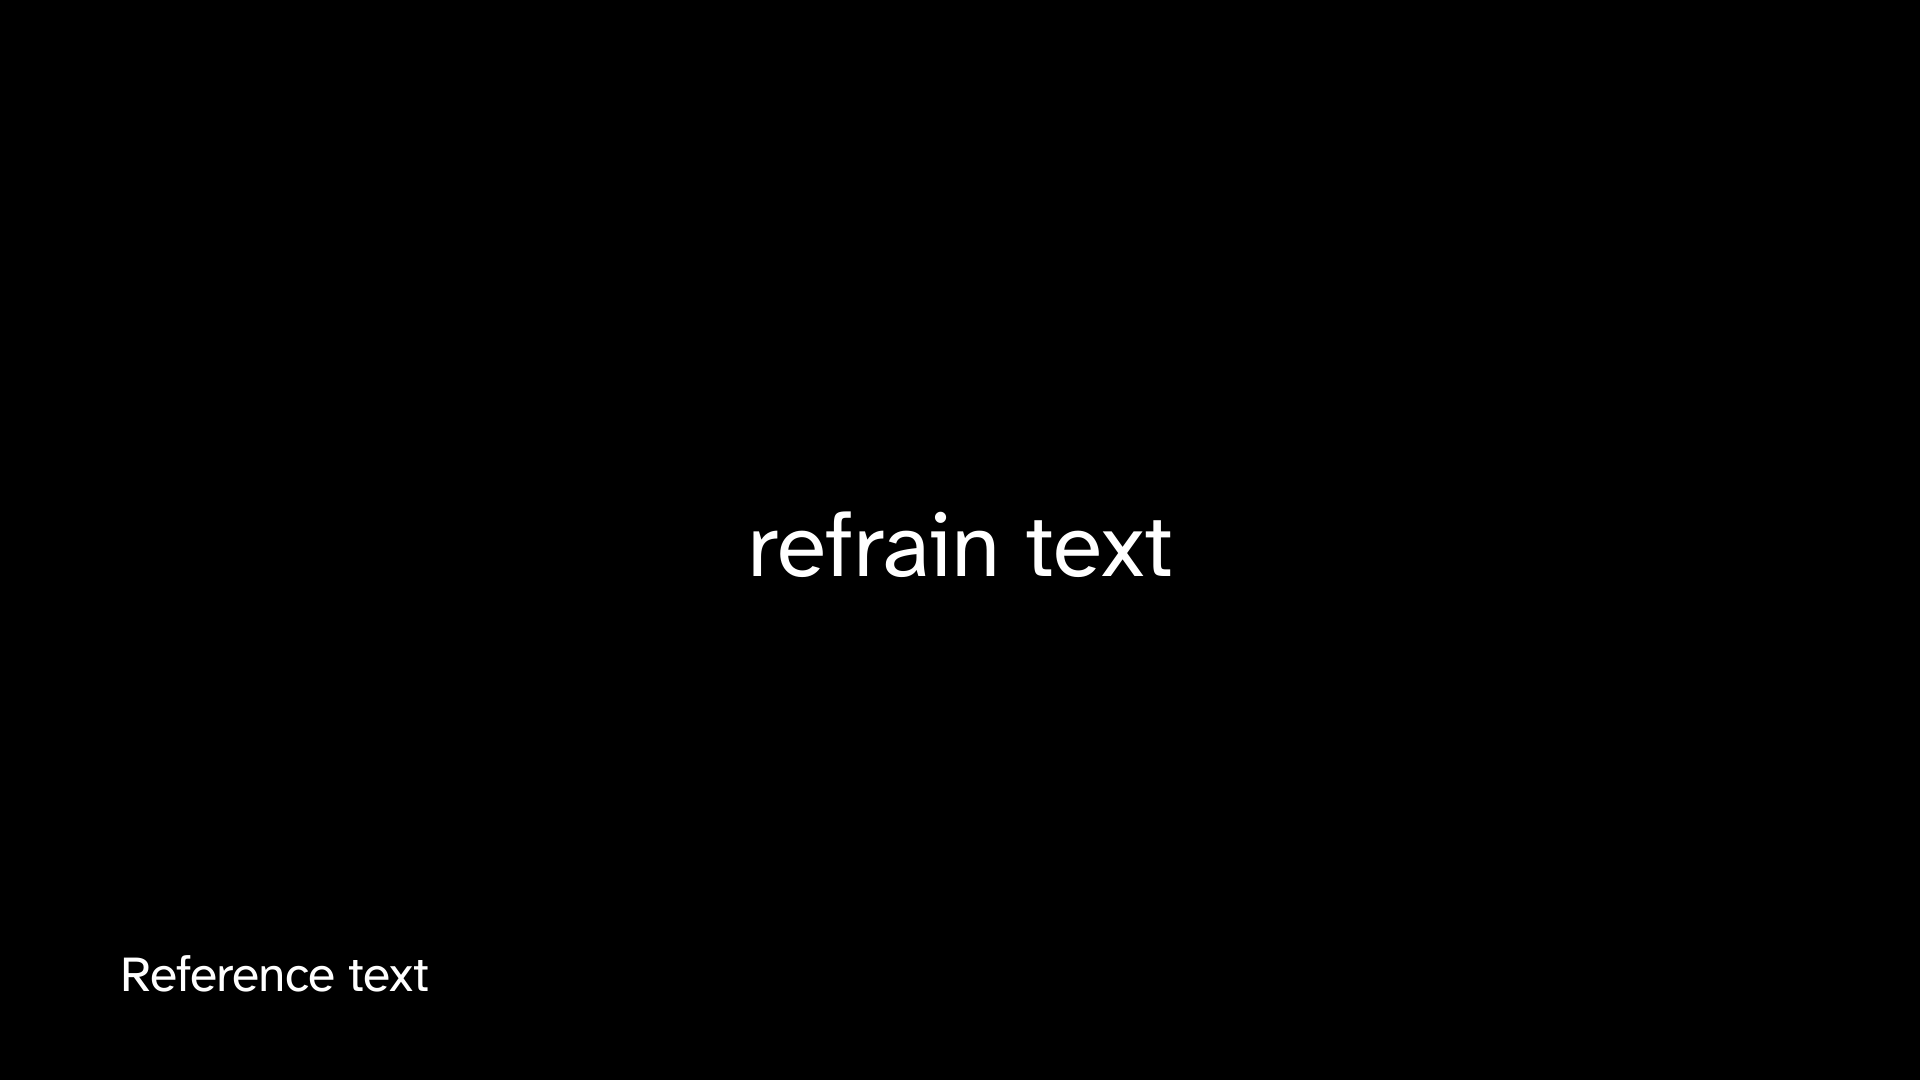
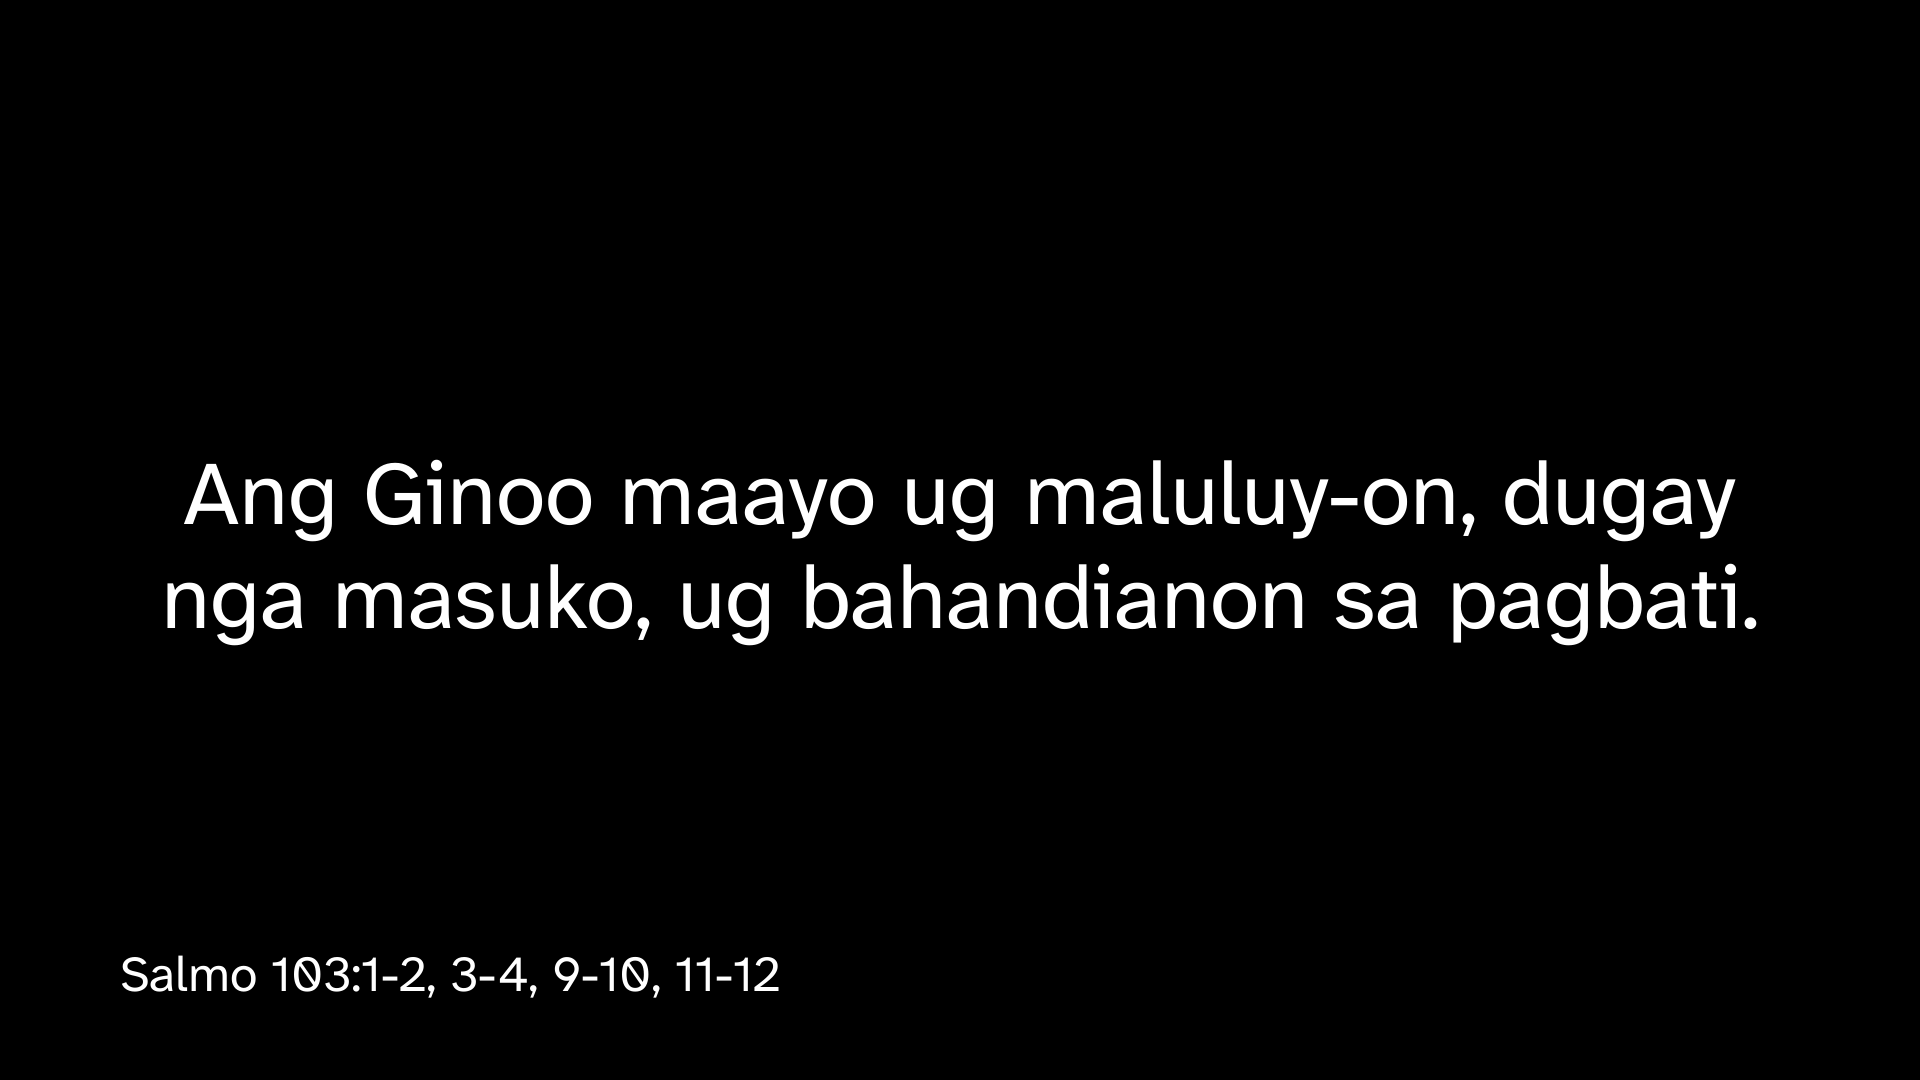
test(rendering): update Cebuano psalm specimens

Changed region(s): [[0.0625, 0.4278, 0.9062, 0.6111], [0.0625, 0.8861, 0.4062, 0.9167]]

diff --git a/docs/qualification/T0.4-GALLERY-CANDIDATE.md b/docs/qualification/T0.4-GALLERY-CANDIDATE.md
@@ -112,8 +112,8 @@ scale, `F5` the target density; diagnostics ride beside the scaled frame.
 | lyrics-overflow-warning | Lyrics | `Verse` | 20/20 | 0 | body content needs 2080px but the body zone offers 862px at the approved minimum; split before shrinking<br>lyric body carries 20 phrases against a two-phrase target; split before shrinking<br>lyric body has 20 rendered lines against a four-line ceiling; split before shrinking | `gallery-candidate/lyrics-overflow-warning.png` |
 | lyrics-punctuation | Lyrics | `Verse` | 1/2 | 0 | none | `gallery-candidate/lyrics-punctuation.png` |
 | lyrics-tagalog-three-line | Lyrics | `Taludtod` | 3/3 | 0 | lyric body carries 3 phrases against a two-phrase target; split before shrinking | `gallery-candidate/lyrics-tagalog-three-line.png` |
-| psalm-header-empty | Psalm | empty | 1/1 | 1 | none | `gallery-candidate/psalm-header-empty.png` |
-| psalm-tagalog | Psalm | `SALMO RESPONSORYO: Awit 95` | 1/2 | 1 | none | `gallery-candidate/psalm-tagalog.png` |
+| psalm-cebuano | Psalm | `SALMO RESPONSORYO:` | 1/2 | 1 | none | `gallery-candidate/psalm-cebuano.png` |
+| psalm-header-empty | Psalm | empty | 1/2 | 1 | none | `gallery-candidate/psalm-header-empty.png` |
 | reading-identification-mateo | ReadingIdentification | absent | 1/3 | 1 | none | `gallery-candidate/reading-identification-mateo.png` |
 | reading-identification-roma | ReadingIdentification | absent | 1/3 | 1 | none | `gallery-candidate/reading-identification-roma.png` |
 | reading-identification | ReadingIdentification | absent | 1/2 | 1 | none | `gallery-candidate/reading-identification.png` |
@@ -136,8 +136,11 @@ Measured at the candidate levels, from the real renderer (see table):
 - `lyrics-mixed-four-line` (long mixed Cebuano/English/Tagalog, 90px): 4
   rendered lines, `fit=fits`; the only warning is the expected two-phrase
   target note (4 phrases), not a geometric overflow.
-- `lyrics-tagalog-three-line` and `psalm-tagalog`: fit with phrase-target
-  notes only; no geometric overflow.
+- `lyrics-tagalog-three-line`: fits with the expected phrase-target note
+  only; no geometric overflow. `psalm-cebuano` and `psalm-header-empty` fit
+  with no warnings and no geometric overflow. The two Psalm specimens carry only the
+  short refrain for `Salmo 103:1-2, 3-4, 9-10, 11-12` as sourced from
+  https://sulugoon.com/readings/2026/09/13/; no additional Psalm text is added.
 - `response-cebuano` (`TUBAG:` + uppercase body, 90px): 1 line, no warnings.
 - `reading-identification` (Sirac title preserved sentence case at 135px/800):
   1 authored line, 2 rendered lines, `fit=fits`, no warnings.

diff --git a/docs/qualification/gallery-candidate/capture-rows.md b/docs/qualification/gallery-candidate/capture-rows.md
@@ -23,8 +23,8 @@
 | lyrics-overflow-warning | Lyrics | `Verse` | 20/20 | 0 | body content needs 2080px but the body zone offers 862px at the approved minimum; split before shrinking<br>lyric body carries 20 phrases against a two-phrase target; split before shrinking<br>lyric body has 20 rendered lines against a four-line ceiling; split before shrinking | `gallery-candidate/lyrics-overflow-warning.png` |
 | lyrics-punctuation | Lyrics | `Verse` | 1/2 | 0 | none | `gallery-candidate/lyrics-punctuation.png` |
 | lyrics-tagalog-three-line | Lyrics | `Taludtod` | 3/3 | 0 | lyric body carries 3 phrases against a two-phrase target; split before shrinking | `gallery-candidate/lyrics-tagalog-three-line.png` |
-| psalm-header-empty | Psalm | empty | 1/1 | 1 | none | `gallery-candidate/psalm-header-empty.png` |
-| psalm-tagalog | Psalm | `SALMO RESPONSORYO: Awit 95` | 1/2 | 1 | none | `gallery-candidate/psalm-tagalog.png` |
+| psalm-cebuano | Psalm | `SALMO RESPONSORYO:` | 1/2 | 1 | none | `gallery-candidate/psalm-cebuano.png` |
+| psalm-header-empty | Psalm | empty | 1/2 | 1 | none | `gallery-candidate/psalm-header-empty.png` |
 | reading-identification-mateo | ReadingIdentification | absent | 1/3 | 1 | none | `gallery-candidate/reading-identification-mateo.png` |
 | reading-identification-roma | ReadingIdentification | absent | 1/3 | 1 | none | `gallery-candidate/reading-identification-roma.png` |
 | reading-identification | ReadingIdentification | absent | 1/2 | 1 | none | `gallery-candidate/reading-identification.png` |

diff --git a/docs/qualification/T0.4-MANUAL-GATE.md b/docs/qualification/T0.4-MANUAL-GATE.md
@@ -79,7 +79,7 @@ controller commit.
   absent vs empty headers distinct, both overflow representatives warning
   beside complete frames; dwell on the long Cebuano/English cases
   (`reading-passage-cebuano`, `reading-passage-english`,
-   `lyrics-mixed-four-line`, `response-cebuano`, `psalm-tagalog`) at the
+   `lyrics-mixed-four-line`, `response-cebuano`, `psalm-cebuano`) at the
    candidate `90/70/50` levels plus the ReadingPassage-only `88px` candidate
    (GeneralText stays `70px`) for comfortable readability.
 - Expected: all rows legible with the intended hierarchy; long cases
